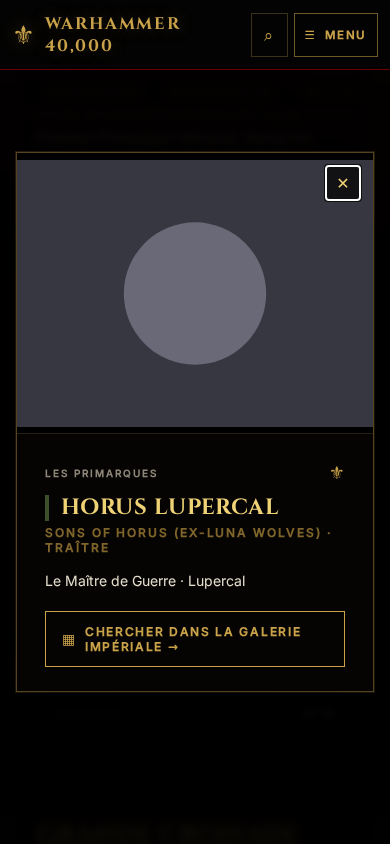
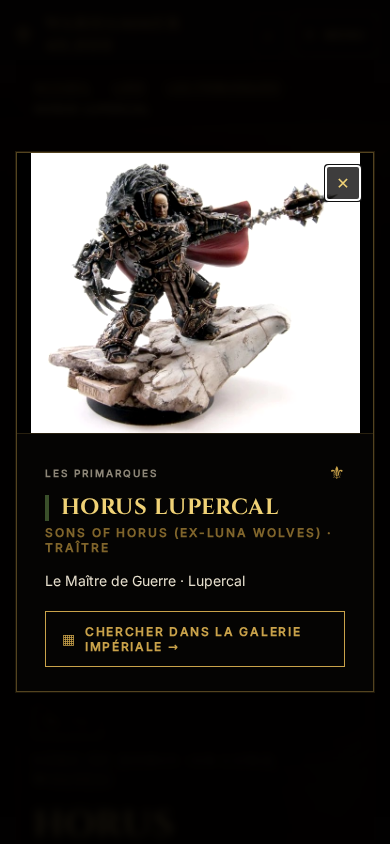
docs(L157): Nouveautés — captures de la visionneuse refaites sur l'application construite (illustration locale, barre du haut sous le voile), texte et README à jour

diff --git a/README.md b/README.md
@@ -37,7 +37,7 @@ En amont du code, [ChatGPT](https://chat.openai.com) a aidé à générer les pr
 
 ## Fonctionnalités
 
-- **Pages** : Dashboard, Factions, Faction Detail, SubFaction Detail, Unit Detail, Romans, Vidéos, **Jeux vidéo** (jeux à venir puis déjà sortis, données vérifiées en ligne dans `frontend/public/jeux-data/jeux.json` ; un jeu à venir dont le jour de sortie annoncé est atteint passe automatiquement en tête de « Déjà sortis », à compléter ensuite dans le fichier avec son vrai résumé et ses plateformes), Galerie, Lore Hub (sommaire `/lore` : carte « Concepts & Lieux » au titre exact ; à 320 px, marge intérieure du hero réduite sous 600 px et titre dès 32 px, sans rognage — L152 ; les compteurs des cartes (fiches, dieux et daemons notables, organisations et fonctions, concepts, événements et ères, pièces, vaisseaux, dieux-machines, figures) et la répartition des Primarques de sa description sont calculés à partir des mêmes données que les pages — API, et `HOT_ZONES` de `lore-galaxy.data.ts` pour les hot zones et failles warp de la carte galactique ; si une liste est indisponible, sa carte n'affiche aucun chiffre ; gardé par `lore-hub/lore-hub-l151.spec.ts` — L151), Empereur (en-tête lisible dès 320 px : marge intérieure de 20 px sous 800 px, titre mesuré au bandeau, voile uni sous le texte pour un sous-titre à 4,5:1 au moins ; gardé par `lore-emperor-l153-entete.e2e.spec.ts` — L153 ; sections : texte en pleine largeur et deux colonnes seulement quand l’illustration du wiki est là, paragraphes bornés à 70ch, gardé par `lore-emperor-l154-sections.e2e.spec.ts` — L154), Primarques (en-têtes lisibles dès 320 px : liste avec marge intérieure de 16 px sous 760 px, fiche avec la seule gouttière de la mise en page (16 px sous 680 px, 34 px de 681 à 760 px), titres mesurés à leur colonne par `fit-title` ; gardé par `lore-primarchs/primarchs-entetes-l155.e2e.spec.ts` — L155 ; contrastes à 4,5:1 au moins : badges de statut et numéro des cartes sur fond plein, teintes de statut communes à la liste et à la fiche (`core/utils/primarch-status.ts`), monde natal en or, et titre de la visionneuse de la fiche en or avec la couleur de légion en filet (`::ng-deep` dans la page : le composant `figure-lightbox`, partagé, est figé par un test scellé de L120) ; gardé par `lore-primarchs/primarchs-contrastes-l156.e2e.spec.ts` — L156 ; sections de la fiche : paragraphes de Description, Hérésie et Héritage bornés à 36em, chapeau à 34em, dès 761 px seulement (sous 760 px rien ne change : les textes gardent la largeur du panneau, plafonnée à 70ch ; R8) (≈ 70 caractères par ligne à 1440 px, comme les colonnes doubles : 100 à 121 caractères avant L158, puis ≈ 90 avec 70ch, car le « ch » est la largeur du chiffre 0, pas d'un caractère moyen ; texte d'Hérésie centré sur l'axe de la citation et de l'image, aligné à gauche dedans ; mesuré en caractères par ligne rendue, sur les 20 fiches : médiane 58 à 80, au plus 88), et deux colonnes seulement quand le second bloc existe — image de Grande Croisade, citation de Personnalité ou de Destin (les Primarques perdus n'ont que deux citations) —, sinon le texte reste seul dans sa colonne de lecture ; gardé par `primarch-detail/primarch-sections-l158.e2e.spec.ts` — L158 ; liste : un seul lien par carte — le nom, étiré sur toute la carte par `::after`, avec « Lire la fiche → » décoratif —, anneau de focus tracé sur la carte (`:has(:focus-visible)`, qu'`overflow:hidden` ne rogne pas), compteurs à « — » tant que la liste charge (`pending()`) ou échoue, région `role=status` « Chargement des Primarques… » ; gardé par `lore-primarchs/primarchs-liste-l159.spec.ts` et `primarchs-focus-l159.e2e.spec.ts` — L159 ; clavier : sur la fiche, le portrait, les images intercalées et l'image d'Origines sont de vrais `<button type="button">` (Entrée et Espace, nom « Agrandir l'illustration … » propre à chacun), la visionneuse (`app-figure-lightbox`, intact) reçoit `role="dialog"`, `aria-modal` et un nom depuis la fiche — pas de composant dupliqué — : le focus entre sur « Fermer », Tab et Maj+Tab bouclent dans le dialogue (`onLightboxKey`), Échap ou Fermer rendent le focus à l'image d'origine ; un clic dans une zone non focalisable du dialogue (qui donnerait le focus à `main`) le ramène sur « Fermer » (écoute `document:focusin`), et `.wrap:has(app-figure-lightbox[role='dialog'])` passe à `z-index: 1000` pour que la visionneuse recouvre la barre du haut (à 390 px, « Fermer » s'y cachait) , et `.topbar:has(.cmdk-panel)` à `z-index: 2000` pour que la recherche Ctrl+K, rendue dans la barre, reste au-dessus de la visionneuse ouverte (`onFocusIn` lui laisse son focus) ; sur la liste, les filtres portent `aria-pressed` ; gardé par `primarch-detail/primarch-clavier-l157.spec.ts` (boutons, attributs, filtres) et `primarch-clavier-l157.e2e.spec.ts` (focus, recouvrement de la barre et Ctrl+K, au navigateur : les entrées-signaux du composant partagé ne se rendent pas sous TestBed) — L157), Panthéon Chaos, Civils Impériaux, Concepts (Trône d'Or, Astronomican, Œil de la Terreur, Cadia, Baal, etc.), Carte galactique, **Armement & Reliques**, **Chronologie du 41e millénaire**, **Galerie Navale** (classes de vaisseaux), **Titans** (classes Collegia Titanica), **Saints Impériaux**, **Nouveautés** (journal des évolutions, chaque capture décrite par son texte alternatif rédigé ; `*titre*` y est rendu en italique, le générateur cadence ne gérant que le gras), **Plan de travail** (en cours, prévu, récemment livré), À propos
+- **Pages** : Dashboard, Factions, Faction Detail, SubFaction Detail, Unit Detail, Romans, Vidéos, **Jeux vidéo** (jeux à venir puis déjà sortis, données vérifiées en ligne dans `frontend/public/jeux-data/jeux.json` ; un jeu à venir dont le jour de sortie annoncé est atteint passe automatiquement en tête de « Déjà sortis », à compléter ensuite dans le fichier avec son vrai résumé et ses plateformes), Galerie, Lore Hub (sommaire `/lore` : carte « Concepts & Lieux » au titre exact ; à 320 px, marge intérieure du hero réduite sous 600 px et titre dès 32 px, sans rognage — L152 ; les compteurs des cartes (fiches, dieux et daemons notables, organisations et fonctions, concepts, événements et ères, pièces, vaisseaux, dieux-machines, figures) et la répartition des Primarques de sa description sont calculés à partir des mêmes données que les pages — API, et `HOT_ZONES` de `lore-galaxy.data.ts` pour les hot zones et failles warp de la carte galactique ; si une liste est indisponible, sa carte n'affiche aucun chiffre ; gardé par `lore-hub/lore-hub-l151.spec.ts` — L151), Empereur (en-tête lisible dès 320 px : marge intérieure de 20 px sous 800 px, titre mesuré au bandeau, voile uni sous le texte pour un sous-titre à 4,5:1 au moins ; gardé par `lore-emperor-l153-entete.e2e.spec.ts` — L153 ; sections : texte en pleine largeur et deux colonnes seulement quand l’illustration du wiki est là, paragraphes bornés à 70ch, gardé par `lore-emperor-l154-sections.e2e.spec.ts` — L154), Primarques (en-têtes lisibles dès 320 px : liste avec marge intérieure de 16 px sous 760 px, fiche avec la seule gouttière de la mise en page (16 px sous 680 px, 34 px de 681 à 760 px), titres mesurés à leur colonne par `fit-title` ; gardé par `lore-primarchs/primarchs-entetes-l155.e2e.spec.ts` — L155 ; contrastes à 4,5:1 au moins : badges de statut et numéro des cartes sur fond plein, teintes de statut communes à la liste et à la fiche (`core/utils/primarch-status.ts`), monde natal en or, et titre de la visionneuse de la fiche en or avec la couleur de légion en filet (`::ng-deep` dans la page : le composant `figure-lightbox`, partagé, est figé par un test scellé de L120) ; gardé par `lore-primarchs/primarchs-contrastes-l156.e2e.spec.ts` — L156 ; sections de la fiche : paragraphes de Description, Hérésie et Héritage bornés à 36em, chapeau à 34em, dès 761 px seulement (sous 760 px rien ne change : les textes gardent la largeur du panneau, plafonnée à 70ch ; R8) (≈ 70 caractères par ligne à 1440 px, comme les colonnes doubles : 100 à 121 caractères avant L158, puis ≈ 90 avec 70ch, car le « ch » est la largeur du chiffre 0, pas d'un caractère moyen ; texte d'Hérésie centré sur l'axe de la citation et de l'image, aligné à gauche dedans ; mesuré en caractères par ligne rendue, sur les 20 fiches : médiane 58 à 80, au plus 88), et deux colonnes seulement quand le second bloc existe — image de Grande Croisade, citation de Personnalité ou de Destin (les Primarques perdus n'ont que deux citations) —, sinon le texte reste seul dans sa colonne de lecture ; gardé par `primarch-detail/primarch-sections-l158.e2e.spec.ts` — L158 ; liste : un seul lien par carte — le nom, étiré sur toute la carte par `::after`, avec « Lire la fiche → » décoratif —, anneau de focus tracé sur la carte (`:has(:focus-visible)`, qu'`overflow:hidden` ne rogne pas), compteurs à « — » tant que la liste charge (`pending()`) ou échoue, région `role=status` « Chargement des Primarques… » ; gardé par `lore-primarchs/primarchs-liste-l159.spec.ts` et `primarchs-focus-l159.e2e.spec.ts` — L159 ; clavier : sur la fiche, le portrait, les images intercalées et l'image d'Origines sont de vrais `<button type="button">` (Entrée et Espace, nom « Agrandir l'illustration … » propre à chacun), la visionneuse (`app-figure-lightbox`, intact) reçoit `role="dialog"`, `aria-modal` et un nom depuis la fiche — pas de composant dupliqué — : le focus entre sur « Fermer », Tab et Maj+Tab bouclent dans le dialogue (`onLightboxKey`), Échap ou Fermer rendent le focus à l'image d'origine ; un clic dans une zone non focalisable du dialogue (qui donnerait le focus à `main`) le ramène sur « Fermer » (écoute `document:focusin`), et `.wrap:has(app-figure-lightbox[role='dialog'])` passe à `z-index: 1000` pour que la visionneuse recouvre la barre du haut (à 390 px, « Fermer » s'y cachait) , et `.topbar:has(.cmdk-panel)` à `z-index: 2000` pour que la recherche Ctrl+K, rendue dans la barre, reste au-dessus de la visionneuse ouverte (`onFocusIn` lui laisse son focus) ; Échap ne ferme que la couche du dessus : la recherche écoute l'Échap en capture sur `window` et le garde (`stopPropagation`) tant qu'elle est ouverte, `figure-lightbox` (partagée, scellée par L120 R10) n'est pas touchée, le suivant ferme la visionneuse ; la fiche étant réutilisée au changement d'id (Ctrl+K, retour arrière), une visionneuse ouverte se ferme (`paramMap`) et le focus va au h1 de la nouvelle fiche (mise en page pour la recherche, `titreAFocaliser` sinon) ; sur la liste, les filtres portent `aria-pressed` ; gardé par `primarch-detail/primarch-clavier-l157.spec.ts` (boutons, attributs, filtres, fermeture au changement d'id) et `command-palette-escape-l157.spec.ts` (Échap) et `primarch-clavier-l157.e2e.spec.ts` (focus, recouvrement de la barre, Ctrl+K, changement de Primarque et Échap, au navigateur : les entrées-signaux du composant partagé ne se rendent pas sous TestBed) — L157), Panthéon Chaos, Civils Impériaux, Concepts (Trône d'Or, Astronomican, Œil de la Terreur, Cadia, Baal, etc.), Carte galactique, **Armement & Reliques**, **Chronologie du 41e millénaire**, **Galerie Navale** (classes de vaisseaux), **Titans** (classes Collegia Titanica), **Saints Impériaux**, **Nouveautés** (journal des évolutions, chaque capture décrite par son texte alternatif rédigé ; `*titre*` y est rendu en italique, le générateur cadence ne gérant que le gras), **Plan de travail** (en cours, prévu, récemment livré), À propos
 - **Hiérarchie faction → sous-faction → unité** : 17 factions principales, 182 sous-factions (Ultramarines, Iron Hands, World Eaters, Krieg, Drukhari Kabales, Necron Dynasties, Tyranid Hive Fleets, +71 successeurs Space Marines lore-ifiés via Lexicanum, etc.) — chacune avec ses notableUnits enrichies (52 personnages Hérésie d'Horus loyalistes/traîtres, +70 figures xenos)
   Une faction sans sous-faction (Inquisition) : `/api/subfactions?factionId=inquisition` répond `[]` ; la fiche n'a alors ni section, ni lien d'ancre, ni compteur « sous-factions » (L135, attendu QA dans `docs/qa/expectations.md`, gardé par `faction-detail.component.spec.ts`, `faction-attentes-qa-l135.spec.ts` et `subfactions-sans-l135.spec.ts`).
   La fiche d’une sous-faction affiche ses `notableUnits` (personnages et unités nommés, rôle + description + illustration wiki) dans « Unités notables » (L90). Chaque illustration (bandeau, notables, unités liées) n'est demandée à `/api/wiki-image` qu'une fois par chargement de fiche : l'`effect()` n'écoute que la fiche, pas le cache d'images (L114, `subfaction-images.spec.ts`).

diff --git a/docs/nouveautes/2026-10-21-fiche-d-un-primarque-images-et-visionneuse-au-clavier.md b/docs/nouveautes/2026-10-21-fiche-d-un-primarque-images-et-visionneuse-au-clavier.md
@@ -4,8 +4,8 @@ date: 2026-10-21
 created: 2026-10-21T21:30+02:00
 lots: [L157]
 captures:
-  - { file: captures/L157-primarque-visionneuse-1440.png, alt: "Visionneuse de la fiche d'Horus Lupercal ouverte au clavier : le bouton Fermer en haut à droite porte un contour clair, il a le focus" }
-  - { file: captures/L157-primarque-visionneuse-390.png, alt: "Visionneuse de la fiche d'Horus Lupercal sur téléphone (390 px), ouverte au clavier, avec le focus sur le bouton Fermer" }
+  - { file: captures/L157-primarque-visionneuse-1440.png, alt: "Visionneuse de la fiche d'Horus Lupercal ouverte au clavier, avec la photographie d'une figurine d'Horus ; la barre du haut est assombrie derrière le voile, le bouton Fermer en haut à droite porte un contour clair, il a le focus" }
+  - { file: captures/L157-primarque-visionneuse-390.png, alt: "Visionneuse de la fiche d'Horus Lupercal sur téléphone (390 px), ouverte au clavier, avec la photographie d'une figurine d'Horus ; la barre du haut est assombrie derrière le voile, le focus est sur le bouton Fermer" }
   - { file: captures/L157-primarque-image-focus-1440.png, alt: "Fiche d'Horus Lupercal : l'image de la section Origines est entourée d'un contour clair, le focus du clavier" }
   - { file: captures/L157-primarque-image-focus-390.png, alt: "Image de la section Origines de la fiche d'Horus sur téléphone (390 px), entourée d'un contour clair quand elle a le focus du clavier" }
 ---
@@ -14,3 +14,5 @@ Sur la fiche d'un Primarque, on peut maintenant tout faire au clavier. Le portra
 La visionneuse s'ouvre avec le focus sur « Fermer ». Tab et Maj+Tab restent dans la fenêtre au lieu d'aller se perdre derrière elle. En la fermant, avec Échap ou avec « Fermer », on retrouve le focus sur l'image qu'on venait d'agrandir.
 
 Dans la liste des Primarques, les filtres Tous, Loyalistes, Traîtres et Perdus indiquent à un lecteur d'écran lequel est actif.
+
+Si l'on change de Primarque pendant que la visionneuse est ouverte (par la recherche Ctrl+K), elle se ferme et le focus va au titre de la nouvelle fiche. Quand la recherche est ouverte par-dessus la visionneuse, Échap ne ferme que la recherche ; un second Échap ferme la visionneuse.
